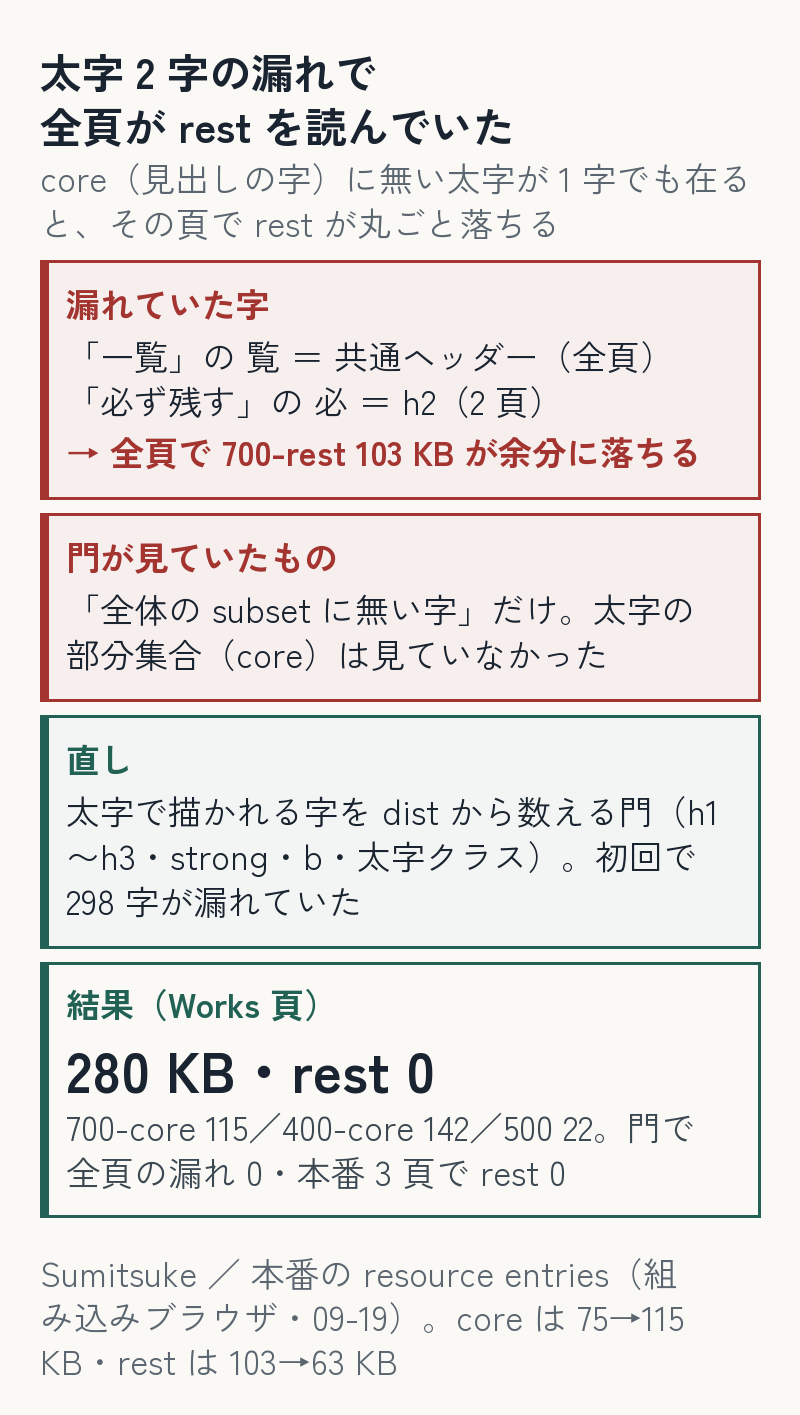
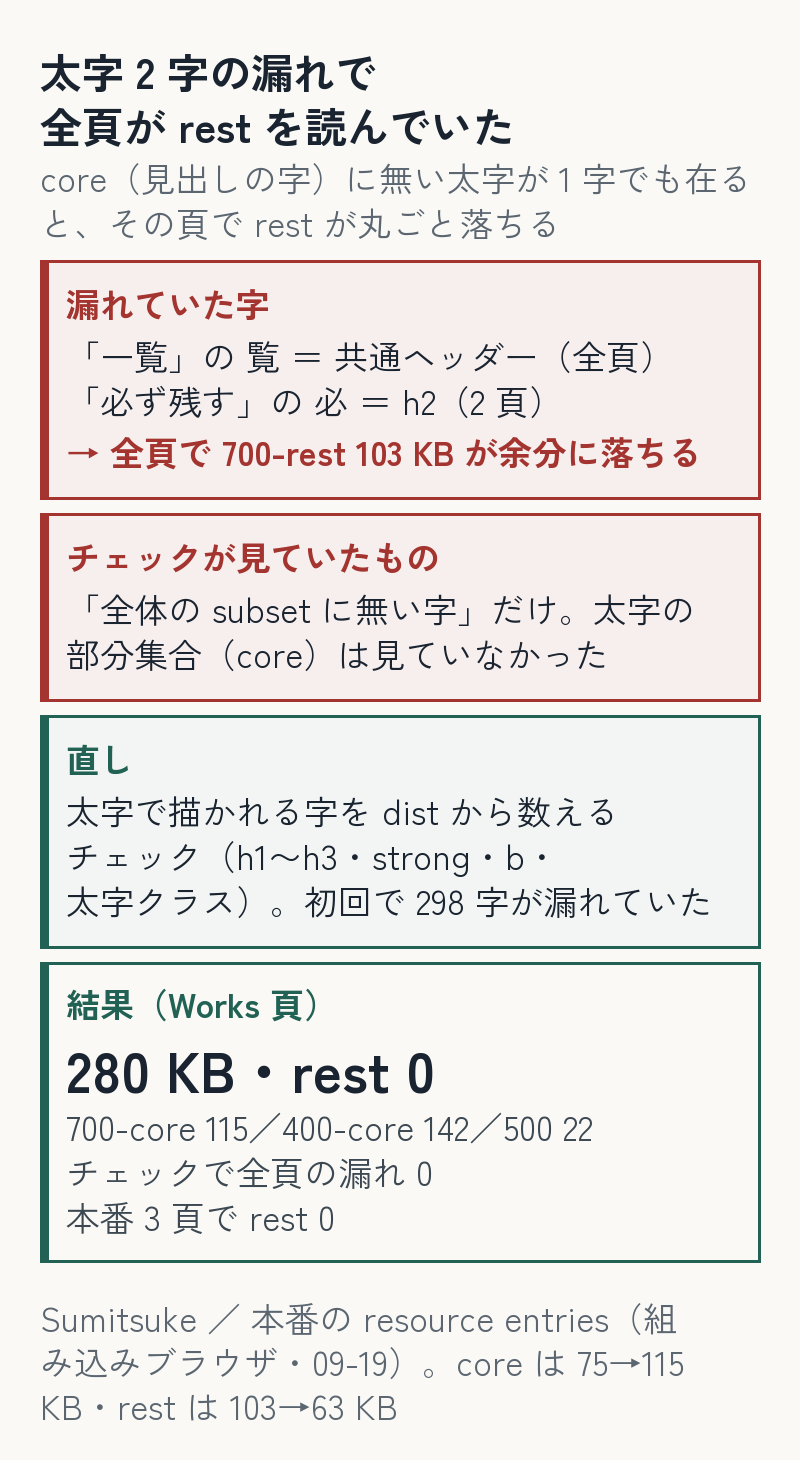
再デプロイ（未公開 1 本: wordpress-handover-admin-vs-wpcli／待ち行列から 1 本: font-subset-never-reached-production）

Changed region(s): [[0.0312, 0.0311, 0.9688, 0.9951], [0.0625, 0.9018, 0.2812, 0.9951], [0.7812, 0.7774, 0.875, 0.8085]]

diff --git a/articles/font-subset-never-reached-production.md b/articles/font-subset-never-reached-production.md
@@ -1,0 +1,137 @@
+---
+title: "subset フォントを作り直しても本番に届いていなかった——同名 URL と 1 年キャッシュで版が混ざり、太字の漏れで分割が崩れた"
+emoji: "🔤"
+type: "tech"
+topics: ["webfont", "cloudflare", "cache", "performance", "astro"]
+published: true
+---
+
+
+> 単位: 本文の KB は 1,000 B（`Content-Length` の値）。外部精査の引用は KiB（1,024 B）のまま書きます（102,912 B＝102.9 KB＝100.5 KiB）。
+
+前編（[日本語 Web フォントの太字を見出しの字だけに絞る](https://zenn.dev/tauridev/articles/font-700-core-rest-lcp)）で、太字フォントを core（見出しの字）と rest（残り）に分けて 136→63 KB にした話を書きました。その後 2 回、設計を変えて subset を作り直しました。**どちらも本番には届いていませんでした。** 気づいたのは、外から転送量を数えた精査が、700-core は 62 KiB、700-rest は 94 KiB が全頁で読まれていると報告してきたときです。手元のファイルは 115 KB、rest は読まれないはずでした。
+
+**この記事の位置づけ**（2026-09-26 追記）
+
+- 既に知られていること: 長くキャッシュさせるファイルは、中身が変わったら URL を変える（ハッシュを付ける）のが定石です（[web.dev](https://web.dev/articles/http-cache)）。
+- この記事で新しく示すこと: 作り直した subset が 2 回とも本番に届かず、版の混ざった状態で太字の漏れが分割を崩していたことを、外から転送量を数えて見つけた数字。
+- 当てはまる範囲: 当方のサイト 1 つ（Cloudflare Pages・自前の subset）。
+
+## 先に結論
+
+1. **同じ URL に `public, max-age=31536000` を付けたまま中身を更新すると、CDN はキャッシュに残っている間（最大 1 年）その URL を fresh として、origin に再検証せず返し得る。** 当サイトでは実際に旧版の HIT を確認し、しかも**3 ファイルが 2 つの別の日（09-17 と 09-18）の版**で配られていた（当方の地点: 700-core は 09-17 版・400 と 700-rest は 09-18 版。別の地点の精査では 400 が 134 KiB＝09-12/13 版のサイズ、rest が 94 KiB＝09-16 版のサイズ、700-core は 62 KiB＝63 KB 系のどれか）。「古い」ではなく「混ざる」。core と rest が別の日の build なら、CSS の unicode-range と woff2 の中身がずれ得る＝分割の前提が崩れ得る（字が落ちた・代替フォントになった、といった描画への影響は観測していません）。
+2. **core/rest 分割は、太字で描かれる字が 1 字でも core に無いと、その頁で rest（103 KB）が丸ごと落ちる。** 共通ヘッダーの「一覧」の **覧**（全頁）と h2 の **必**（2 頁）が漏れていて、全頁が rest を読んでいた。「その頁では rest を読ませない」という狙いが崩れていた。
+3. 直しは 3 つ。URL に中身の sha1 を付ける（`?v=…`・クエリはキャッシュキーに入る）／太字で描かれる字を生成物から数えて core に無ければ build を止めるチェック／400 も同じ形で core（記事以外に出る字）と rest（記事だけの字）に分ける。結果、Works の頁はフォント **280 KB・rest 0**（本番の resource timing）。
+
+`immutable` は CDN の話ではありません。Cloudflare の公式文書は “This directive has no effect on public caches like Cloudflare, but does change browser behavior.” と書いています。効いていたのは `max-age` と同名 URL です。`immutable` はブラウザが再検証をやめる指示で、こちらはこちらで「同名のまま」を長引かせます。因果を分けて書きます。
+
+## 起きたこと（数字）
+
+### 手元と本番が違う
+
+`git log` × `git ls-tree -l` で 700-core の履歴を 27 commit 並べると:
+
+| 日時 | commit | 700-core |
+|---|---|---|
+| 09-13 09:38 | `7a9078e` | 63,052 B |
+| 09-17 14:17 | `10a62e1`（07:32 `041d254` も同バイト。Age から逆算して 14:17 の版） | **63,100 B** |
+| 09-18 11:20 | `8dd3329` | 75,136 B（設計変更 1＝core に見出しの字を足した） |
+| 09-19 11:01 | `f1ace58` | 115,080 B（設計変更 2＝太字のチェックで漏れ 298 字を足した） |
+
+本番の無印 URL に `curl -I`（09-19 12:5x）:
+
+| ファイル | Content-Length | Age | 版 |
+|---|---|---|---|
+| 700-core.woff2 | 63,100 | 166,396 秒 | 09-17 |
+| 400.woff2 | 165,704 | 7,273 秒 | 09-18 18:38 `b0780fa`（09-19 11:01 まで同バイト） |
+| 700-rest.woff2 | 102,912 | 7,273 秒 | 09-18 |
+
+Age 166,396 秒を 12:5x から引くと 09-17 14:4x＝`10a62e1`（14:17）のデプロイ直後です。700-core はこの版が 2 日近く配られ、その後の 16 commit（設計変更 2 回を含む）は届いていませんでした。同じ日の昼に別の地点から精査した観測は「400＝134 KiB・rest＝94 KiB・700-core＝62 KiB」。134 KiB は 09-12/13 版のサイズ、94 KiB は 09-16 版のサイズに当たります（700-core の 62 KiB は 63 KB 系＝09-13〜09-18 07:07 のどれかで、KiB 1 桁では日を特定できません）。**別の地点では、当方の地点とも異なる旧版のサイズを観測した**、が言える範囲です。
+
+![同じ URL・1 年キャッシュで配られていた版の日。700-core は当方の地点で 09-17 版・外部の地点は 62 KiB（63 KB 系のどれか）、400 は 09-18 版と 09-12/13 版のサイズ、700-rest は 09-18 版と 09-16 版のサイズ。リポは 09-19。直し＝URL に sha1](/images/font-subset-never-reached-production/fig1_version_mix.png)
+
+woff2 は毎 commit 数バイトずつ変わります（63,024〜63,108）。「2 回作り直した」ではなく「毎回変わるファイルを、同じ名前で 1 年キャッシュに置いていた」が正確です。
+
+### 太字 2 字
+
+前編の設計は「core を後に宣言して unicode-range で当てる。core に無い字が太字で出たときだけ rest が落ちる」でした。それ自体は正しく動いていて、**落ちる条件を自分で作っていた**のが問題でした。
+
+- 共通ヘッダーのナビ「読み物の一覧」「検証記録の一覧」＝太字。**覧** が core に無い → 全頁で rest。
+- トップと Works 索引の h2「納品のとき、必ず残す 4 つ」＝**必** が core に無い → 2 頁で rest（ただし覧で既に全頁）。
+
+core の字は前編で「描画して computed font-weight を読む」方法で 316 字を集めたもので、その後に足した語は入っていませんでした。チェックは「全体の subset に無い字」しか見ていなかったので、太字の部分集合の漏れは緑のまま通りました。
+
+## 直し
+
+### 1. URL に版を付ける（生成器で）
+
+subset 生成器（fontTools）が woff2 を書いたあと、各ファイルの sha1 先頭 8 桁を `versions.json` に書き、`fonts.css` の `url()` と HTML の `<link rel="preload">` に `?v=<hash>` を付けます。手で付けると忘れるので生成器の仕事にしました。
+
+```python
+_ver = {n: hashlib.sha1(open(os.path.join(OUT, n), 'rb').read()).hexdigest()[:8]
+        for n in sorted(os.listdir(OUT)) if n.endswith('.woff2')}
+css = re.sub(r'url\("/fonts/([^"?]+\.woff2)"\)',
+             lambda m: f'url("/fonts/{m.group(1)}?v={_ver[m.group(1)]}")', css)
+```
+
+Cloudflare の既定のキャッシュキーにはクエリ文字列が入るので、版ごとに別の URL＝別のキャッシュになります。`_headers` の `immutable` はそのまま（同じ URL の中身は本当に変わらなくなったので）。
+
+デプロイ後の確認: `curl -I …700-core.woff2?v=5b9d4c64` → `Content-Length: 115088`・`cf-cache-status: MISS`（初回）。
+
+### 2. 太字の字を生成物から数えるチェック
+
+`check-zones.mjs`（build 後に dist を検査する自作のチェック）に 1 段足しました。h1〜h3・strong・b・th・dt・summary と、CSS で `font-weight: 700` を当てているクラスの中の文字を集め、`bold-core-chars.txt`（生成器が書く core の字の一覧）に無ければ赤。
+
+```js
+const tagRe = new RegExp(`<(h[1-3]|strong|b|th|dt|summary)\\b[^>]*>([\\s\\S]*?)<\\/\\1>|<(\\w+) class="(?:[^"]*\\s)?(?:${BOLD_CLASSES.join('|')})(?:\\s[^"]*)?"[^>]*>([\\s\\S]*?)<\\/\\3>`, 'g');
+for (const ch of text) if (ch.codePointAt(0) >= 0x80 && !boldCore.has(ch)) boldMissing.set(ch, ...);
+if (boldMissing.size) red.push(`フォント: 太字の字が 700-core に無い ${boldMissing.size} 個 …`);
+```
+
+初回の出力は「700-core に無い 298 字 覧経屋号廃止必…」。Lab 記事の `strong` の字が大半でした。全部 core に足すと core は 75→115 KB、rest は 103→63 KB。チェックは全頁の生成物で漏れ 0 を確かめ、本番の転送はトップ・Lab 記事・Works（pricing）の 3 頁の resource timing で rest 0 を確認しました。多めに拾う側（dt・summary も拾う）に倒した近似です＝core が少し太るだけで、漏れの方向には外れません。
+
+![太字 2 字の漏れで全頁が rest を読んでいた。漏れていた字＝覧（共通ヘッダー・全頁）・必（h2・2 頁）→ 全頁で 700-rest 103 KB。チェックが見ていたのは全体の subset だけ。直し＝太字の字を dist から数えるチェック（初回 298 字）。結果＝Works 頁 280 KB・rest 0](/images/font-subset-never-reached-production/fig2_two_chars.png)
+
+### 3. 400 も分ける
+
+同じ仕組みで 400（本文）も、記事以外に出る字（1,458 字・142 KB）と記事だけに出る字（177 字・29 KB）に分けました。Works の頁が読むのは 700-core 115・400-core 142・500 22 の **280 KB**、rest はどちらも 0（本番の `performance.getEntriesByType('resource')`）。
+
+## うまくいかなかったこと
+
+- **手元の `git` を見て「更新した」と思っていた。** 本番の `Content-Length` を一度も並べていなかった。同名ファイルで長い max-age を付けるなら、デプロイ後に本番のバイト数を並べるのは必須の 1 行でした。
+- 09-18 の設計変更 1（core に見出しの字を足す）は、届いていない上に **覧・必 が入っていなかった**ので、届いていても rest は落ちていました。2 つの欠陥が重なっていて、片方だけ直しても転送量は変わらなかったはずです。
+- 太字のチェックの初回は 1 字だけ赤が残り、それは nbsp（U+00A0）でした。core の「常に入れる範囲」に入れて閉じました。
+- 「外部の精査が無ければ気づかなかったか」は言い切れません（Lighthouse の転送量でも見えた可能性）。ただ、自分では 6 日間気づかなかったのは事実です。
+
+## 3 層で並べる 1 表
+
+フォント以外の CSS・JS・画像にも同じ表が使えます。同名で長いキャッシュを付けている資産は、この 3 列が揃って初めて「届いた」と言えます。
+
+| 資産 | 手元（bytes・sha） | CDN（Content-Length・Age・cf-cache-status） | ブラウザ（transferSize） |
+|---|---|---|---|
+| 700-core | 115,080 | 63,100・166,396・HIT（09-17 版） | 未測定 |
+| 400 | 165,732 | 165,704・7,273・HIT | 未測定 |
+| 700-rest | 63,104 | 102,912・7,273・HIT | 未測定 |
+
+ブラウザ列は、直す前（09-19 12:5x）には測っていません。その版はもう取り戻せないので、空欄のままにしました。この表は形の見本で、ブラウザ列の数字はありません。直したあとの値は、Works（pricing）の頁で 700-core 115,392・400-core 141,876・500 22,808 B（合計 280,076 B）です。
+
+手元の 3 ファイルと CDN の 3 ファイルは、揃っていませんでした。CDN が返した 3 ファイルは 2 つの別の日（09-17 と 09-18）の版で、手元（09-19）とも違いました。
+
+## 測っていない範囲
+
+- ブラウザ側のキャッシュ動作は Chromium 系 1 種類で見ただけです。
+- 観測地点は 2（当方と、精査した相手）。相手側は転送量（KiB）だけで `Content-Length`・colo は無いので、版の日は「サイズが当たる commit」までです。Cloudflare のどの階層で版が分かれたかは追っていません。
+- LCP の実値は未計測（転送量の数字まで）。
+
+### AI の利用について
+
+subset 生成器・太字のチェック・この記事の下書きには AI（Claude Code）を使っています。数字は `git ls-tree`・`curl -I`・ブラウザの resource timing から写し、判断（因果の分離・チェックの設計）は人が行いました。案件の情報は含みません（自サイトの数字だけ）。
+
+### 関連
+
+- 前編: [日本語 Web フォントの太字を見出しの字だけに絞る（136→63 KB）](https://zenn.dev/tauridev/articles/font-700-core-rest-lcp)
+- 本家（検証の記録つき）: https://sumitsuke.jp/via/zenn/lab/font-subset-cache-version-mix/
+
+---
+
+Sumitsuke は、AI や外注で作ったものの点検と修理、業務自動化、検証を受託しています。「軽くしたはずなのに軽くならない」の切り分けは → https://sumitsuke.jp/works/repair/
